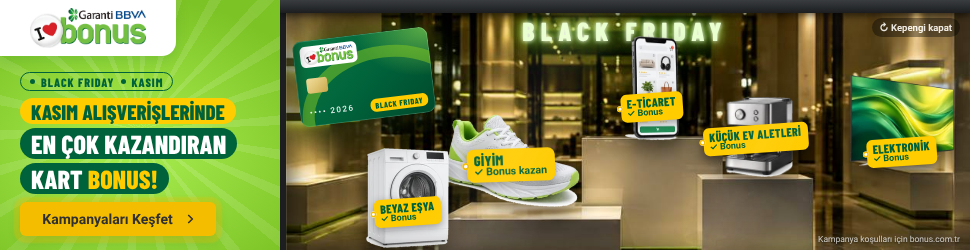
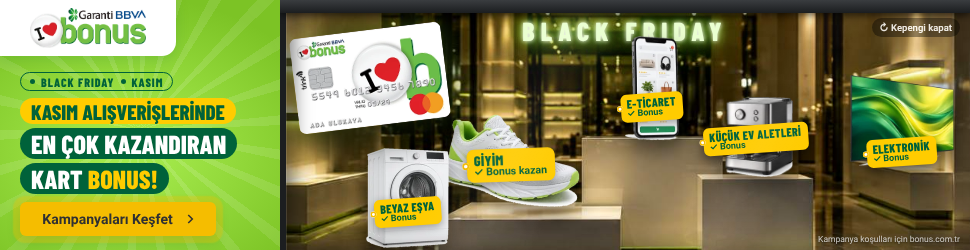
Vitrin: çizim kart yerine gerçek Bonus Classic kart görseli
Kart görseli bonus.com.tr'den (card-ref iş akışı) alındı.

Claude-Session: https://claude.ai/code/session_01U7A1NYEFWT6XhS4i1emuWj

Changed region(s): [[0.2784, 0.084, 0.4948, 0.532]]

diff --git a/garanti-bonus-masthead/vitrin/index.html b/garanti-bonus-masthead/vitrin/index.html
@@ -111,20 +111,15 @@
   .snd .on, .tv.sound .snd .off { display: none; } .tv.sound .snd .on { display: block; }
 
   /* Bonus kartı */
-  .card { position: absolute; z-index: 6; left: 16px; top: 34px; width: 136px; height: 86px; border-radius: 9px; overflow: hidden; pointer-events: none;
-    background: radial-gradient(110px 76px at 100% 0%, rgba(170,239,81,.55), transparent 65%), linear-gradient(135deg, #0b7a45 0%, var(--green-dk) 55%, #004a2b 100%);
-    box-shadow: 0 16px 30px rgba(0,0,0,.6), 0 0 0 1px rgba(255,255,255,.2) inset, 0 0 30px rgba(124,195,37,.35);
+  /* Gerçek Bonus Classic kart görseli (bonus.com.tr) */
+  .card { position: absolute; z-index: 6; left: 14px; top: 30px; width: 152px; height: 96px; border-radius: 7px; overflow: hidden; pointer-events: none;
+    box-shadow: 0 16px 30px rgba(0,0,0,.6), 0 0 26px rgba(124,195,37,.35);
     opacity: 0; transform: translate(-40px, -140px) rotate(-30deg); transition: transform 1s cubic-bezier(.3,1.1,.4,1) 2.1s, opacity .3s 2.1s; }
   .open .card { opacity: 1; transform: rotate(-7deg); }
-  .card::before { content: ""; position: absolute; right: -40px; bottom: -62px; width: 150px; height: 110px; border-radius: 50%; border: 12px solid rgba(124,195,37,.55); }
-  .card::after { content: ""; position: absolute; top: -50%; left: -60%; width: 40%; height: 200%; background: linear-gradient(90deg, transparent, rgba(255,255,255,.45), transparent); transform: rotate(20deg); }
+  .card img { width: 100%; height: 100%; }
+  .card::after { content: ""; position: absolute; top: -50%; left: -60%; width: 40%; height: 200%; background: linear-gradient(90deg, transparent, rgba(255,255,255,.55), transparent); transform: rotate(20deg); }
   .open .card::after { animation: sweep 1s ease 3s; }
   @keyframes sweep { to { left: 130%; } }
-  .card .plate { position: absolute; left: 7px; top: 6px; background: #fff; border-radius: 5px; padding: 2px 4px; }
-  .card .plate img { height: 17px; }
-  .card .chip { position: absolute; left: 10px; top: 38px; width: 21px; height: 15px; border-radius: 3px; background: linear-gradient(135deg, #f6e3a1, #c9a74a); }
-  .card .num { position: absolute; left: 10px; bottom: 9px; font-size: 8px; font-weight: 500; letter-spacing: 1.5px; color: #fff; opacity: .9; }
-  .card .bf { position: absolute; right: 7px; bottom: 7px; background: var(--yellow); color: var(--green-dk); font: 800 8px/1 "Barlow Condensed", Arial Narrow, sans-serif; letter-spacing: .6px; padding: 3px 5px 2px; border-radius: 6px; }
   .glass { position: absolute; inset: 0; z-index: 7; pointer-events: none;
     background: linear-gradient(115deg, transparent 30%, rgba(255,255,255,.07) 38%, transparent 46%, transparent 62%, rgba(255,255,255,.05) 68%, transparent 74%); }
   .legal { position: absolute; z-index: 9; right: 10px; bottom: 6px; font-size: 8.5px; color: rgba(255,255,255,.75); text-shadow: 0 1px 2px rgba(0,0,0,.6); }
@@ -193,12 +188,7 @@
[2 lines of base64/hex data omitted]
 
-    <div class="card">
-      <span class="plate"><img id="plateLogo" alt=""></span>
-      <span class="chip"></span>
-      <span class="num">•••• 2026</span>
-      <span class="bf">BLACK FRIDAY</span>
-    </div>
[1 lines of base64/hex data omitted]
     <div class="glass"></div>
     <p class="legal">Kampanya koşulları için bonus.com.tr</p>
     <button class="reclose" id="reclose" type="button">↻ Kepengi kapat</button>
@@ -219,7 +209,6 @@
 <script>
 (function () {
   var ad = document.getElementById('ad'), shutter = document.getElementById('shutter'), cta = document.getElementById('cta');
-  document.getElementById('plateLogo').src = document.getElementById('logo').src; // logo tek kez gömülür
   var reduce = window.matchMedia && matchMedia('(prefers-reduced-motion: reduce)').matches;
   var opened = false, autoTimer = null, doneTimer = null, AUTO_OPEN = 3200;
 

diff --git a/garanti-bonus-masthead/src/vitrin.html b/garanti-bonus-masthead/src/vitrin.html
@@ -111,20 +111,15 @@
   .snd .on, .tv.sound .snd .off { display: none; } .tv.sound .snd .on { display: block; }
 
   /* Bonus kartı */
-  .card { position: absolute; z-index: 6; left: 16px; top: 34px; width: 136px; height: 86px; border-radius: 9px; overflow: hidden; pointer-events: none;
-    background: radial-gradient(110px 76px at 100% 0%, rgba(170,239,81,.55), transparent 65%), linear-gradient(135deg, #0b7a45 0%, var(--green-dk) 55%, #004a2b 100%);
-    box-shadow: 0 16px 30px rgba(0,0,0,.6), 0 0 0 1px rgba(255,255,255,.2) inset, 0 0 30px rgba(124,195,37,.35);
+  /* Gerçek Bonus Classic kart görseli (bonus.com.tr) */
+  .card { position: absolute; z-index: 6; left: 14px; top: 30px; width: 152px; height: 96px; border-radius: 7px; overflow: hidden; pointer-events: none;
+    box-shadow: 0 16px 30px rgba(0,0,0,.6), 0 0 26px rgba(124,195,37,.35);
     opacity: 0; transform: translate(-40px, -140px) rotate(-30deg); transition: transform 1s cubic-bezier(.3,1.1,.4,1) 2.1s, opacity .3s 2.1s; }
   .open .card { opacity: 1; transform: rotate(-7deg); }
-  .card::before { content: ""; position: absolute; right: -40px; bottom: -62px; width: 150px; height: 110px; border-radius: 50%; border: 12px solid rgba(124,195,37,.55); }
-  .card::after { content: ""; position: absolute; top: -50%; left: -60%; width: 40%; height: 200%; background: linear-gradient(90deg, transparent, rgba(255,255,255,.45), transparent); transform: rotate(20deg); }
+  .card img { width: 100%; height: 100%; }
+  .card::after { content: ""; position: absolute; top: -50%; left: -60%; width: 40%; height: 200%; background: linear-gradient(90deg, transparent, rgba(255,255,255,.55), transparent); transform: rotate(20deg); }
   .open .card::after { animation: sweep 1s ease 3s; }
   @keyframes sweep { to { left: 130%; } }
-  .card .plate { position: absolute; left: 7px; top: 6px; background: #fff; border-radius: 5px; padding: 2px 4px; }
-  .card .plate img { height: 17px; }
-  .card .chip { position: absolute; left: 10px; top: 38px; width: 21px; height: 15px; border-radius: 3px; background: linear-gradient(135deg, #f6e3a1, #c9a74a); }
-  .card .num { position: absolute; left: 10px; bottom: 9px; font-size: 8px; font-weight: 500; letter-spacing: 1.5px; color: #fff; opacity: .9; }
-  .card .bf { position: absolute; right: 7px; bottom: 7px; background: var(--yellow); color: var(--green-dk); font: 800 8px/1 "Barlow Condensed", Arial Narrow, sans-serif; letter-spacing: .6px; padding: 3px 5px 2px; border-radius: 6px; }
   .glass { position: absolute; inset: 0; z-index: 7; pointer-events: none;
     background: linear-gradient(115deg, transparent 30%, rgba(255,255,255,.07) 38%, transparent 46%, transparent 62%, rgba(255,255,255,.05) 68%, transparent 74%); }
   .legal { position: absolute; z-index: 9; right: 10px; bottom: 6px; font-size: 8.5px; color: rgba(255,255,255,.75); text-shadow: 0 1px 2px rgba(0,0,0,.6); }
@@ -193,12 +188,7 @@
     <div class="p phone"><img src="{{VITRIN:phone.webp}}" alt="Akıllı telefonda alışveriş uygulaması"><span class="lbl"><b>E-ticaret</b>✓ Bonus<span> kazan</span></span></div>
     <div class="p espresso"><img src="{{VITRIN:espresso.webp}}" alt="Espresso makinesi"><span class="lbl"><b>Küçük ev aletleri</b>✓ Bonus<span> kazan</span></span></div>
 
-    <div class="card">
-      <span class="plate"><img id="plateLogo" alt=""></span>
-      <span class="chip"></span>
-      <span class="num">•••• 2026</span>
-      <span class="bf">BLACK FRIDAY</span>
-    </div>
+    <div class="card"><img src="{{VITRIN:card.webp}}" alt="Garanti BBVA Bonus kredi kartı"></div>
     <div class="glass"></div>
     <p class="legal">Kampanya koşulları için bonus.com.tr</p>
     <button class="reclose" id="reclose" type="button">↻ Kepengi kapat</button>
@@ -219,7 +209,6 @@
 <script>
 (function () {
   var ad = document.getElementById('ad'), shutter = document.getElementById('shutter'), cta = document.getElementById('cta');
-  document.getElementById('plateLogo').src = document.getElementById('logo').src; // logo tek kez gömülür
   var reduce = window.matchMedia && matchMedia('(prefers-reduced-motion: reduce)').matches;
   var opened = false, autoTimer = null, doneTimer = null, AUTO_OPEN = 3200;
 

diff --git a/garanti-bonus-masthead/README.md b/garanti-bonus-masthead/README.md
@@ -132,7 +132,7 @@ Teslim dosyası: `vitrin/index.html` (tek dosya, ~190 KB; görseller gömülü).
 |---|---|---|
 | ![](screens/vitrin/4-vitrin.png) | ![](screens/vitrin/5-hover.png) | ![](screens/vitrin/6-tv-film-test.png) |
 
-**Fikir:** Gece, kepengi kapalı bir mağaza vitrini. Kepengin üzerinde bantlı "BLACK FRIDAY – Kepengi kaldır, fırsatları gör!" afişi. Kullanıcı kepengi yukarı sürükler (ya da tıklar / fare tekerleği / ↑ tuşu); kepenk toplanır, mağazanın ışıkları titreyerek yanar, "BLACK FRIDAY" neon tabelası açılır, ürünler podyumlara yerleşir ve her birinin üzerinde Bonus etiketi belirir: Elektronik (TV), Beyaz eşya (çamaşır makinesi), Giyim (spor ayakkabı), E-ticaret (telefonda alışveriş uygulaması), Küçük ev aletleri (espresso makinesi). Son olarak Bonus kartı vitrine süzülür, CTA nabız atar.
+**Fikir:** Gece, kepengi kapalı bir mağaza vitrini. Kepengin üzerinde bantlı "BLACK FRIDAY – Kepengi kaldır, fırsatları gör!" afişi. Kullanıcı kepengi yukarı sürükler (ya da tıklar / fare tekerleği / ↑ tuşu); kepenk toplanır, mağazanın ışıkları titreyerek yanar, "BLACK FRIDAY" neon tabelası açılır, ürünler podyumlara yerleşir ve her birinin üzerinde Bonus etiketi belirir: Elektronik (TV), Beyaz eşya (çamaşır makinesi), Giyim (spor ayakkabı), E-ticaret (telefonda alışveriş uygulaması), Küçük ev aletleri (espresso makinesi). Son olarak gerçek **Bonus Classic** kartı (bonus.com.tr'deki resmi kart görseli, `assets/vitrin/card.webp`) vitrine süzülür, CTA nabız atar.
 
 **Etkileşim:** Kepengi sürükleme (fare + dokunmatik), tıklama, tekerlek, klavye. Kullanıcı dokunmazsa kepenk 3,2 sn sonra kendiliğinden açılır. Ürünlerin üzerine gelince ürün öne çıkar, etiket "Bonus kazan" olarak genişler. "Kepengi kapat" ile baştan oynar. Kepenk ve TV dışındaki her yer tıklama çıkışına gider (`clickTag` / `Enabler.exit`).
 
